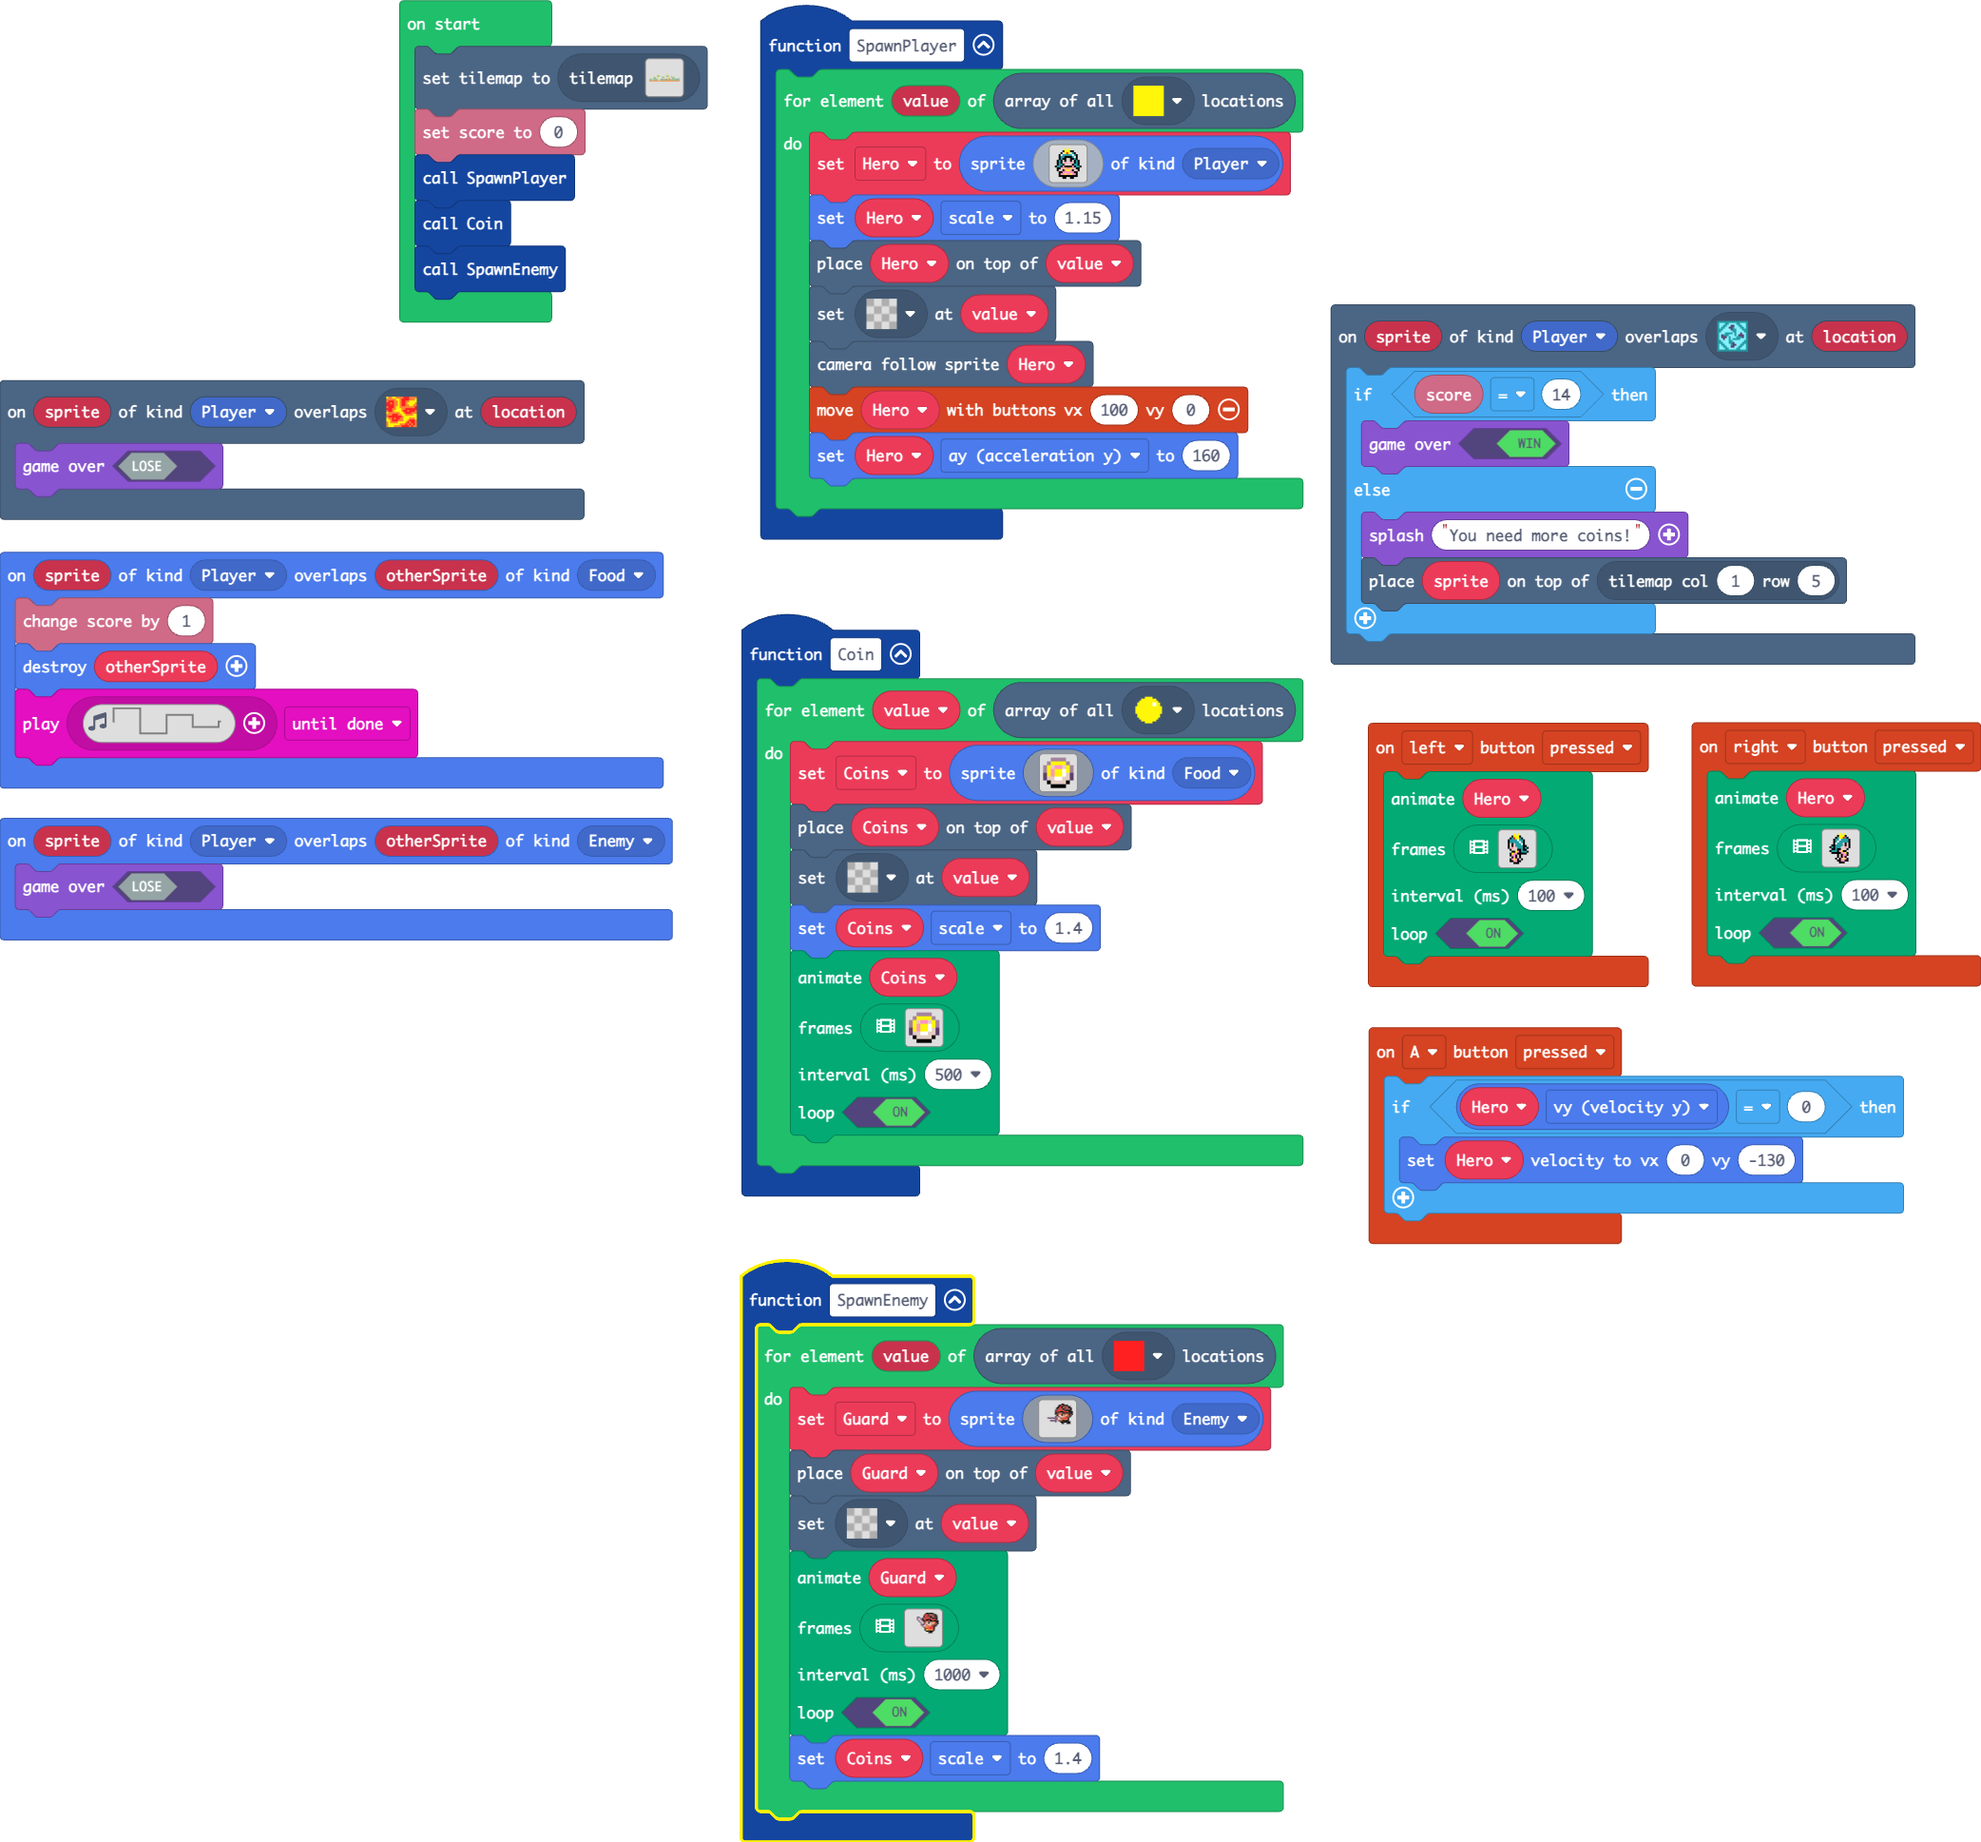
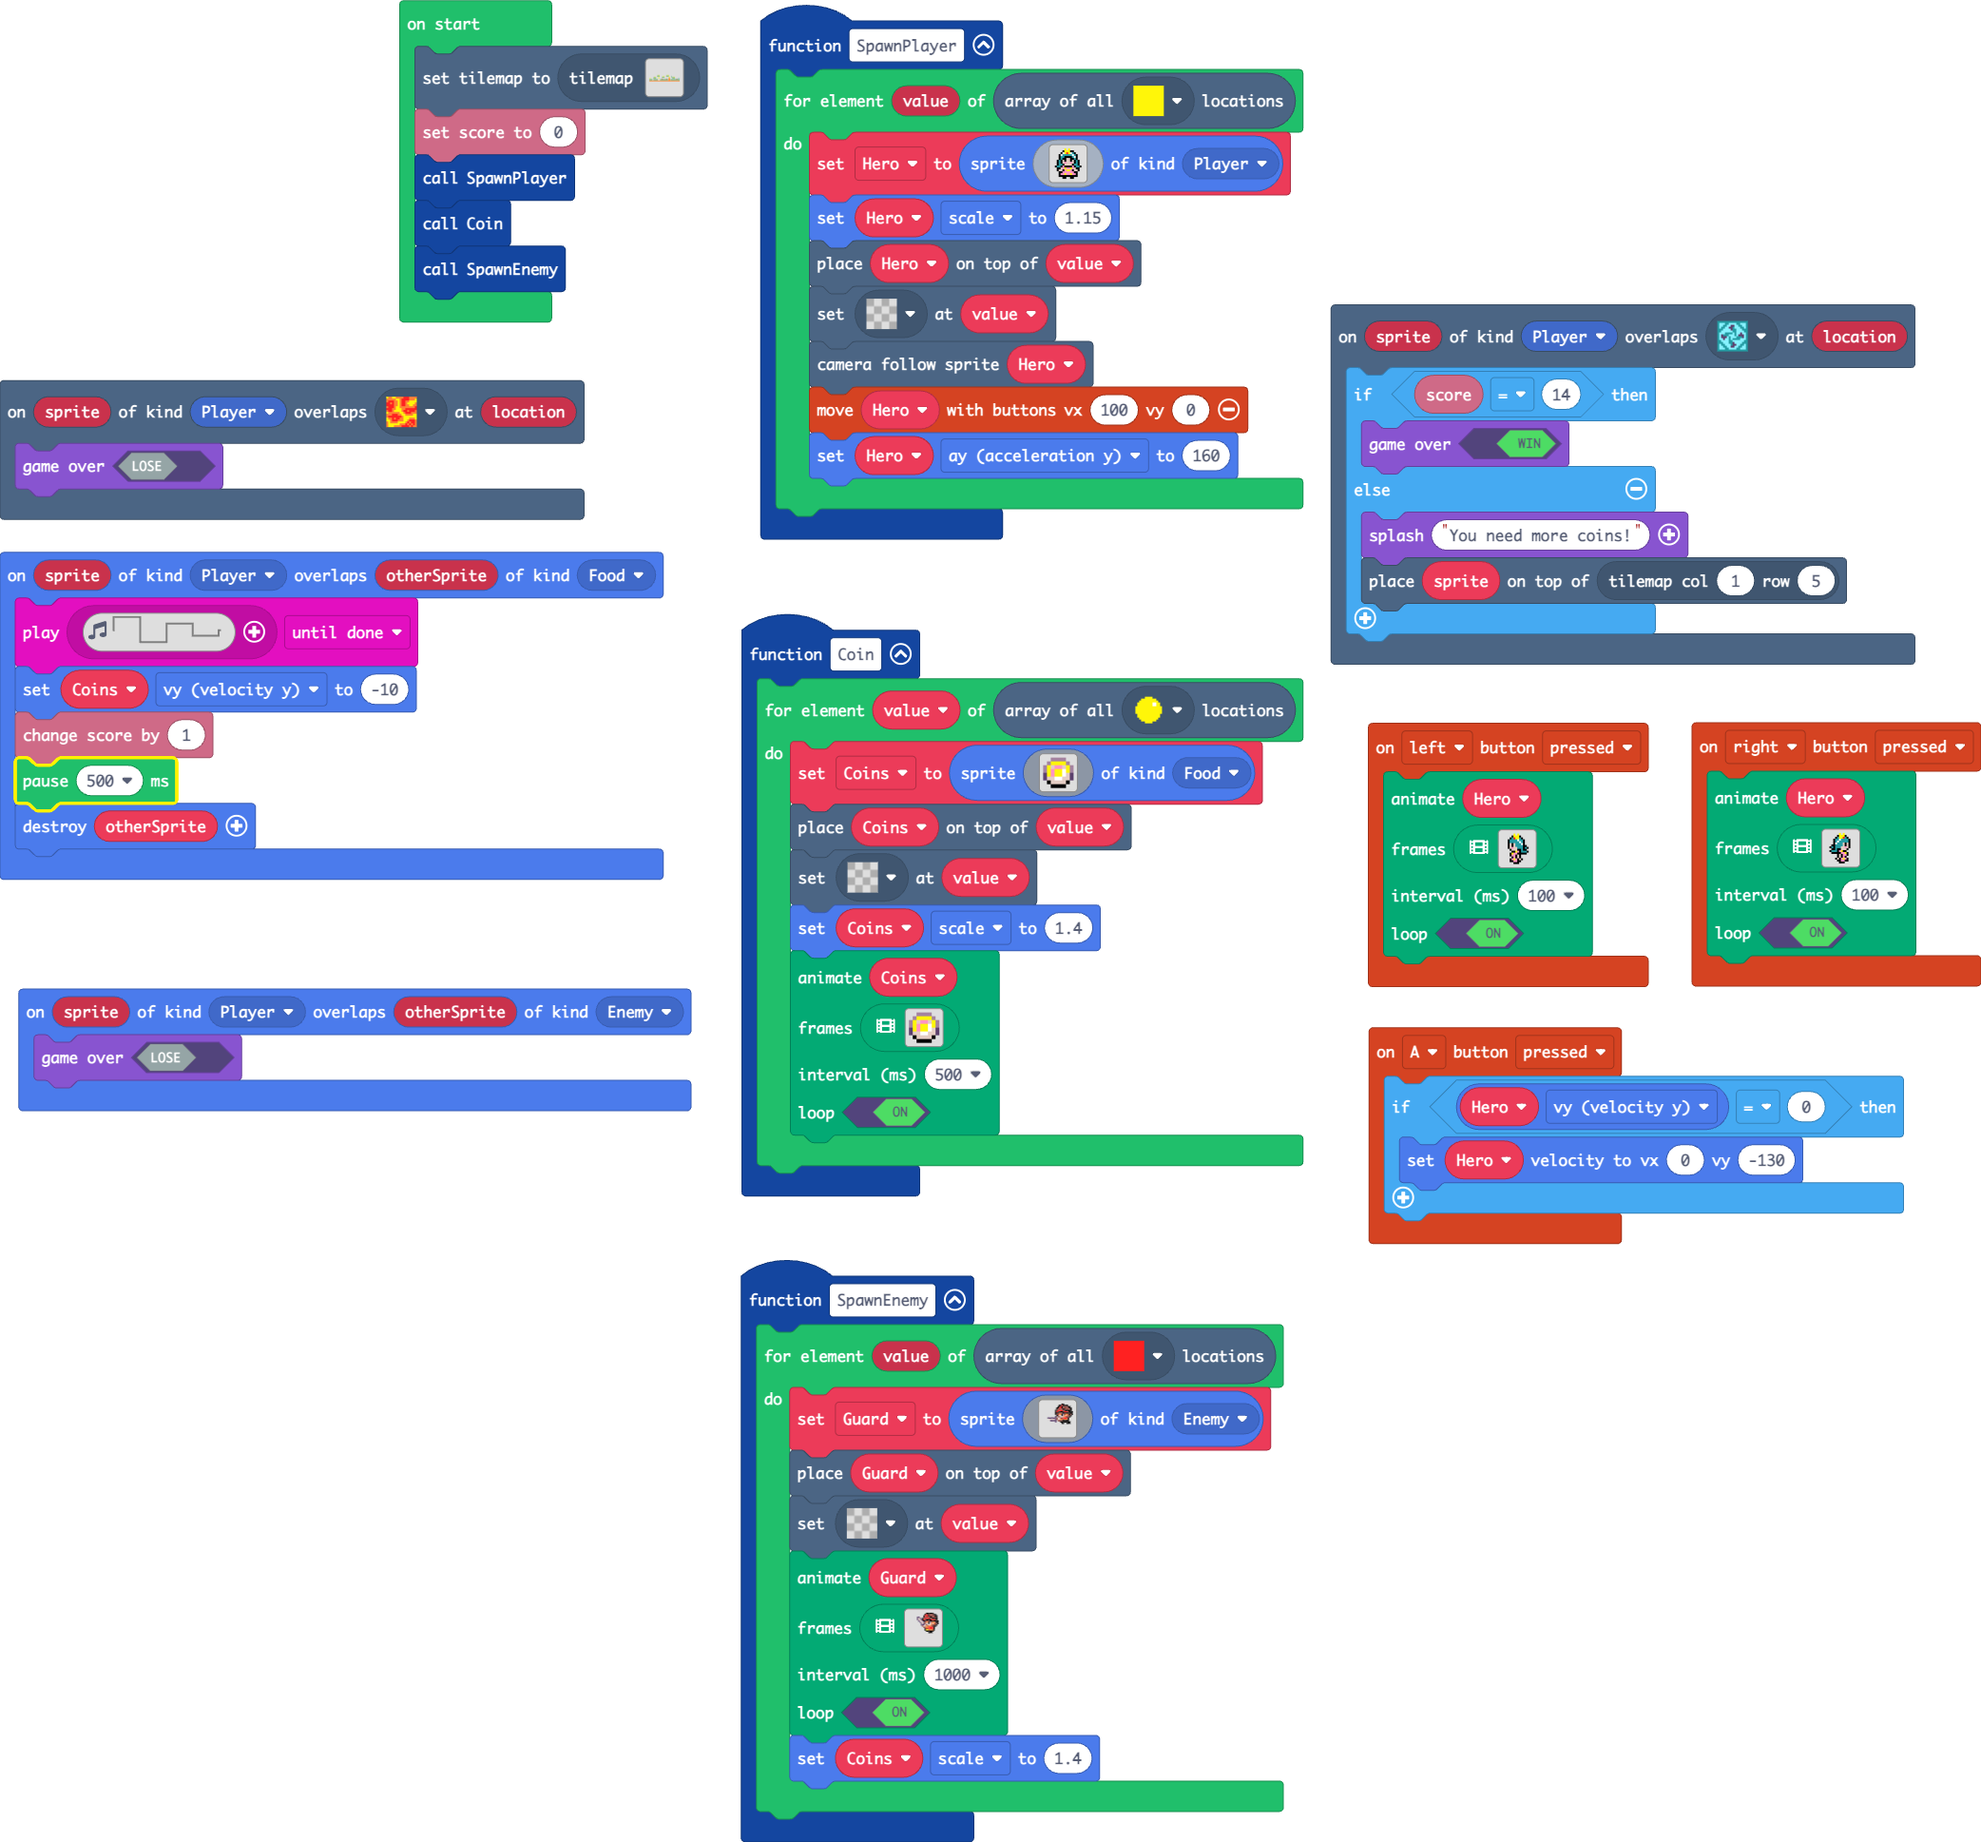
Update main.blocks, main.ts

Changed region(s): [[0.0, 0.3098, 0.3743, 0.6195], [0.3743, 0.9602, 0.499, 1.0], [0.3743, 0.7124, 0.4055, 0.7434]]

diff --git a/main.ts b/main.ts
@@ -377,9 +377,11 @@ scene.onOverlapTile(SpriteKind.Player, assets.tile`myTile2`, function (sprite, l
     }
 })
 sprites.onOverlap(SpriteKind.Player, SpriteKind.Food, function (sprite, otherSprite) {
-    info.changeScoreBy(1)
-    sprites.destroy(otherSprite)
     music.play(music.createSoundEffect(WaveShape.Square, 400, 600, 255, 0, 100, SoundExpressionEffect.None, InterpolationCurve.Linear), music.PlaybackMode.UntilDone)
+    Coins.vy = -10
+    info.changeScoreBy(1)
+    pause(500)
+    sprites.destroy(otherSprite)
 })
 sprites.onOverlap(SpriteKind.Player, SpriteKind.Enemy, function (sprite, otherSprite) {
     game.gameOver(false)
